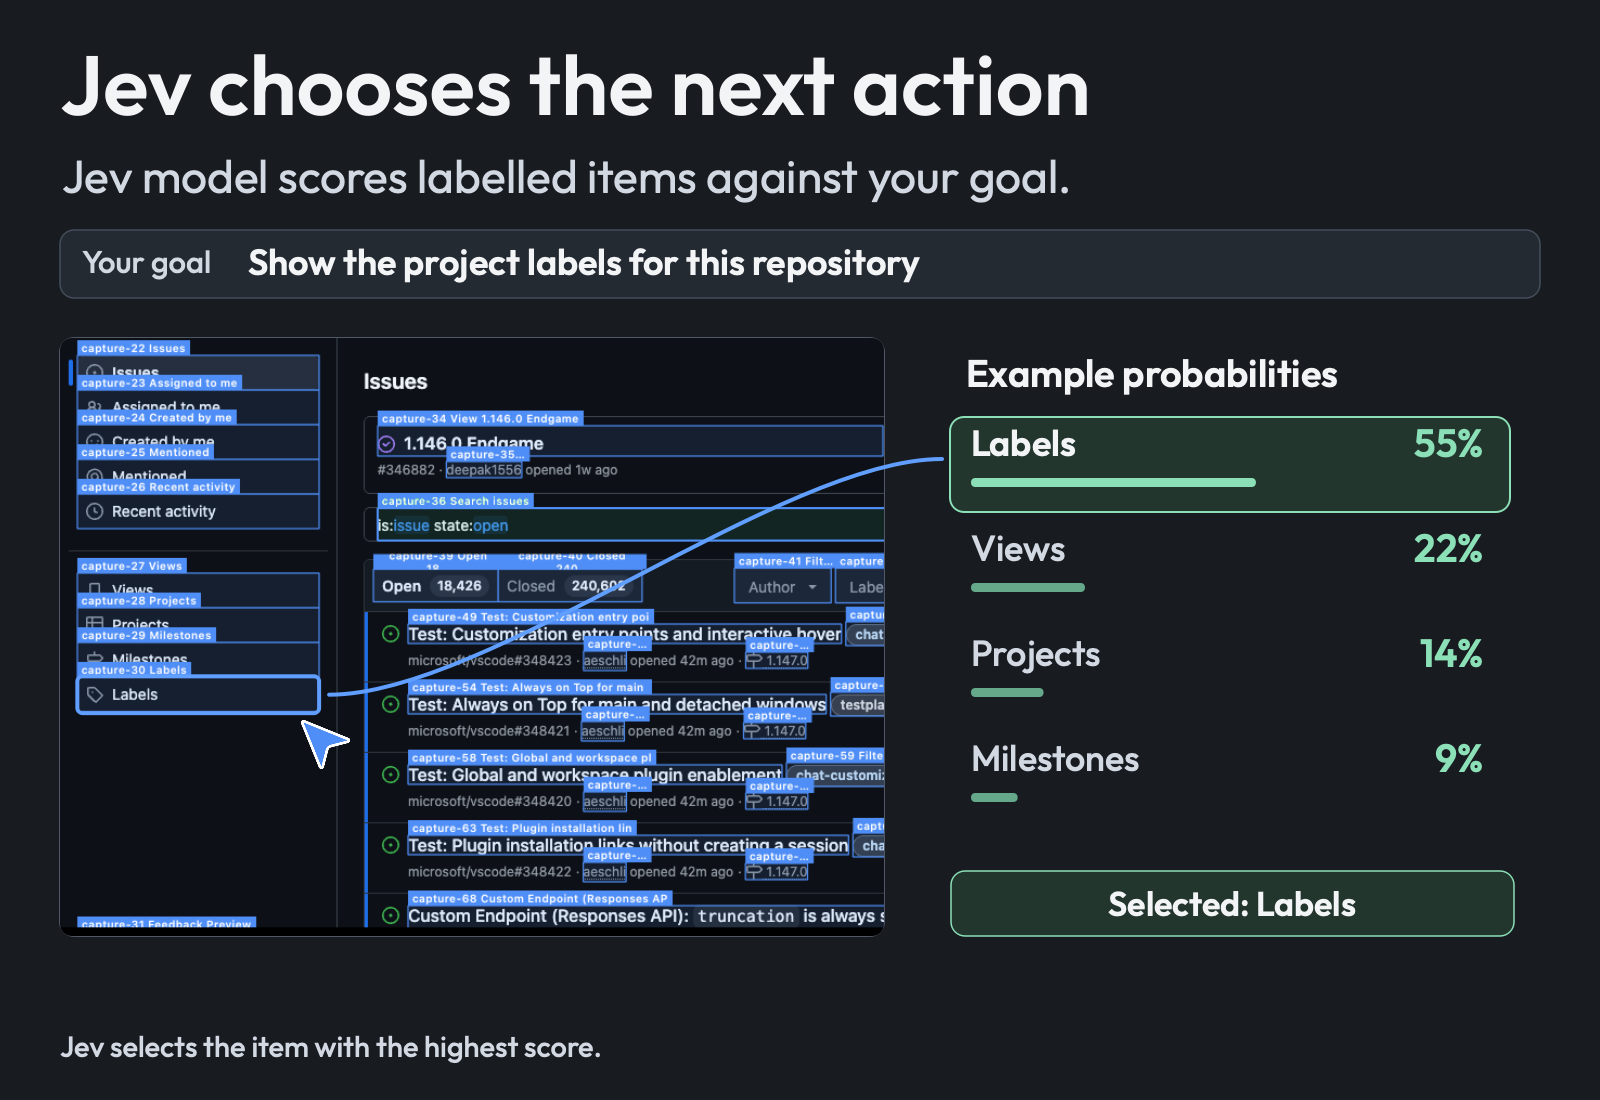
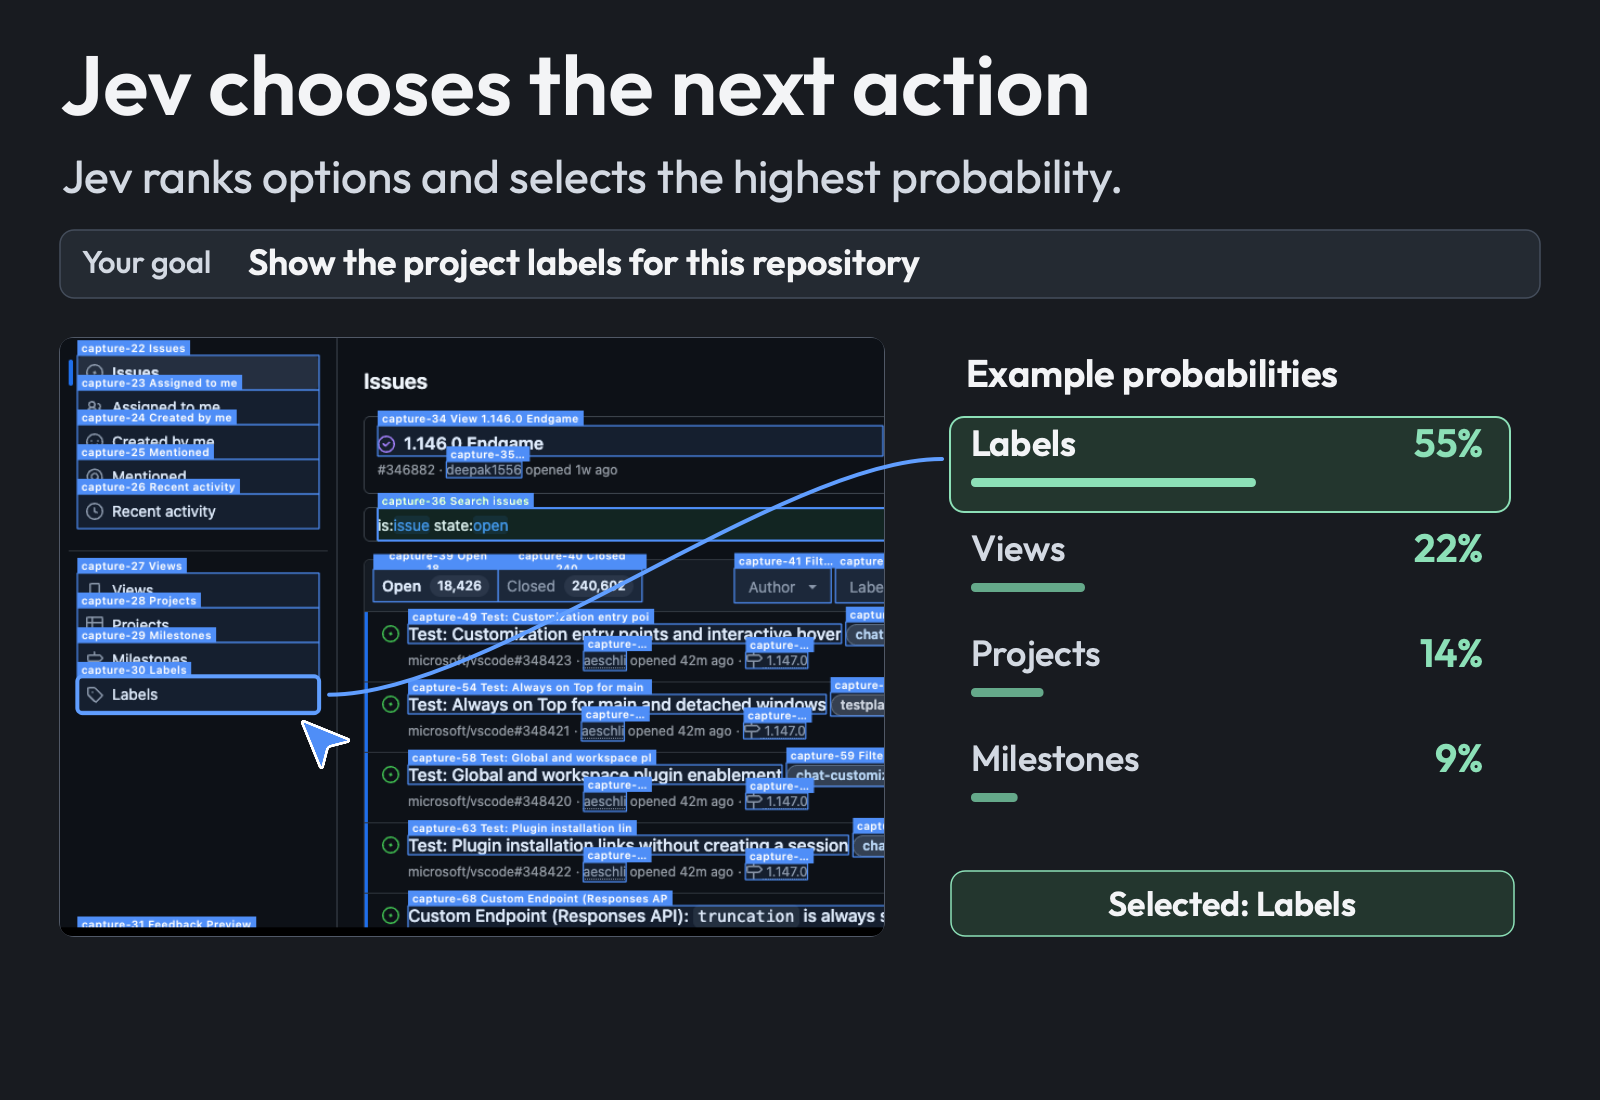
docs(readme): clarify jev probability selection

Changed region(s): [[0.0938, 0.1236, 0.7188, 0.1855], [0.0312, 0.9273, 0.375, 0.9582]]

diff --git a/docs/launch/scripts/build_recognition_artwork.py b/docs/launch/scripts/build_recognition_artwork.py
@@ -158,9 +158,10 @@ def jev():
     assert ranked[0]["id"] == data["choice"].split(":", 1)[1]
     assert abs(sum(row["probability"] for row in ranked) - 1) < 0.0001
     source = load("desktop/vscode-accessibility.png")
+    assert source.copy(0, 168, 760, 552).save(str(A / "browser/jev-score-controls.png"))
     value, p = canvas(1600, 1100, BG)
     text(p, "Jev chooses the next action", 60, 115, 84, INK, QFont.Weight.DemiBold)
-    text(p, "Jev model scores labelled items against your goal.",
+    text(p, "Jev ranks options and selects the highest probability.",
          62, 193, 46, MUTED, QFont.Weight.Normal)
     panel(p, QRectF(60, 230, 1480, 68), "#242a32")
     text(p, "Your goal", 82, 273, 31, MUTED)
@@ -205,7 +206,6 @@ def jev():
     p.setBrush(Qt.BrushStyle.NoBrush)
     p.setPen(QPen(QColor(BLUE), 4, Qt.PenStyle.SolidLine, Qt.PenCapStyle.RoundCap))
     p.drawPath(curve)
-    text(p, "Jev selects the item with the highest score.", 60, 1057, 29, MUTED)
     p.end()
     assert value.save(str(OUT / "nudge-jev.png"))
 

diff --git a/README.md b/README.md
@@ -42,7 +42,7 @@ Nudge works across your desktop. Ask it to open Notes from the macOS Dock, launc
 | ![Dock mockup with the actual Nudge bar, an open Notes request and a blue cursor path to the macOS Notes icon](docs/assets/nudge-dock.png) | Mockup of opening Notes from the macOS Dock, using Nudge's actual bar and macOS app icons. |
 | ![A dark VS Code issue tracker with blue boxes around recorded controls and the command uv run nudge](docs/assets/nudge-accessibility.png) | VS Code issue tracker showing recorded accessibility controls. |
 | ![Figma editor mockup with blue accessibility controls, orange text and icon detections, and the command uv run --extra vision nudge](docs/assets/nudge-vision.png) | Figma mockup using [Travel app UI design](https://www.figma.com/community/file/1502285519770933220/travel-app-ui-design-explore-the-world-with-ease) by Samiul Reshad, under [CC BY 4.0](https://creativecommons.org/licenses/by/4.0/). |
-| ![Jev scores four labelled controls for the goal Show the project labels for this repository. Example probabilities select Labels, connected to Nudge's blue cursor on the screen](docs/assets/nudge-jev.png) | Jev ranks labelled controls and selects Labels for the requested task. |
+| ![Jev ranks four labelled controls for the goal Show the project labels for this repository. Example probabilities select Labels, connected to Nudge's blue cursor on the screen](docs/assets/nudge-jev.png) | Jev ranks labelled controls and selects Labels for the requested task. |
 | ![Nudge's captured CLI output in a dark terminal, showing the statement request, selected controls and successful completion](docs/assets/nudge-terminal.png) | Terminal output from the bank recording. |
 
 ## Quick start
